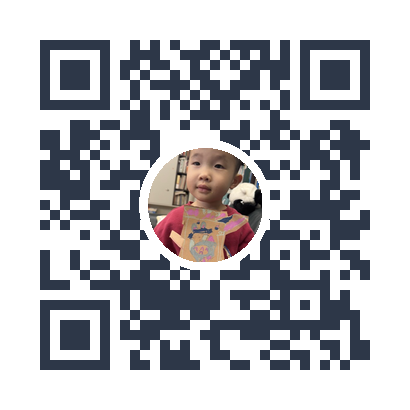
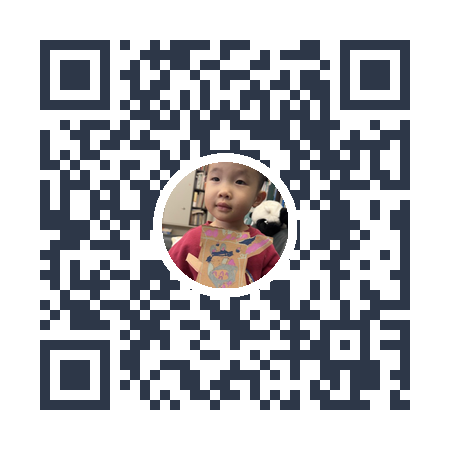
feat: QR deep link to auto-enter gallery (?enter=1)
- Update generator URL
- Regenerate QR image

diff --git a/generate_qr.py b/generate_qr.py
@@ -9,7 +9,7 @@ from PIL import Image, ImageDraw
 import os
 
 # Primary site for QR code – Cloudflare Pages (global CDN, fast everywhere)
-URL = "https://ysqrcode.pages.dev/"
+URL = "https://ysqrcode.pages.dev/?enter=1"
 
 def create_totoro_image(size=150):
     """Create a cute Totoro character image."""
